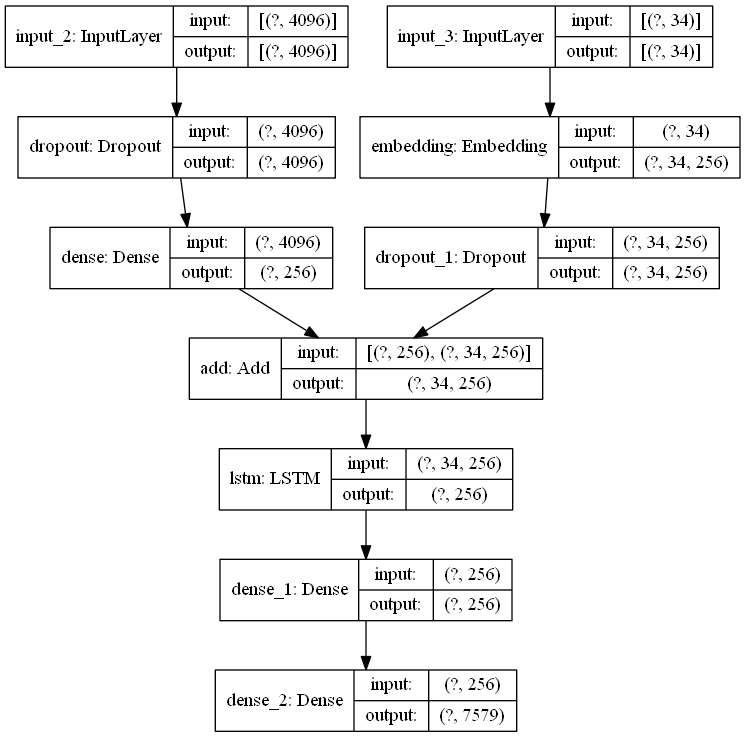
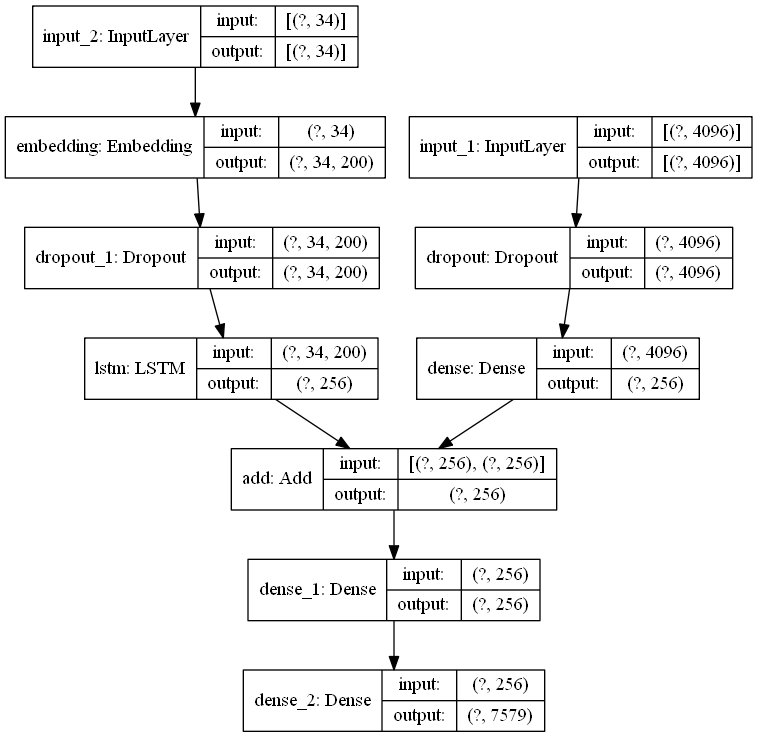
added glove

diff --git a/train.py b/train.py
@@ -1,4 +1,6 @@
 from PIL import Image
+import os
+import numpy as np
 import tensorflow
 import keras
 import string
@@ -133,7 +135,7 @@ def max_length(descriptions):
 	return max(len(d.split()) for d in lines)    
 
 # define the captioning model
-def define_model(vocab_size, max_length, model_type="merge"):
+def define_model(vocab_size, max_length, model_type="merge",feature_model="vgg",glove=False):
 	
 	if feature_model =="injection":
 		inputs1 = Input(shape=(2048,))
@@ -149,7 +151,7 @@ def define_model(vocab_size, max_length, model_type="merge"):
 
 		# sequence model
 		inputs2 = Input(shape=(max_length,))
-		se1 = Embedding(vocab_size, 256, mask_zero=True)(inputs2)
+		se1 = Embedding(vocab_size, embedding_dim, mask_zero=True)(inputs2)
 		se2 = Dropout(0.5)(se1)
 		se3 = LSTM(256)(se2)
 
@@ -176,6 +178,11 @@ def define_model(vocab_size, max_length, model_type="merge"):
 		outputs = Dense(vocab_size, activation='softmax')(decoder)
 
 	model = Model(inputs=[inputs1, inputs2], outputs=outputs)
+
+	if glove:
+		model.layers[2].set_weights([embedding_matrix])
+		model.layers[2].trainable = False
+
 	model.compile(loss='categorical_crossentropy', optimizer='adam')
 
 	# summarize model
@@ -201,13 +208,31 @@ train_features = load_photo_features(str(feature_model) + '.pkl', train)
 print('Photos: train=%d' % len(train_features))
 
 # prepare tokenizer
-tokenizer = create_tokenizer(train_descriptions)
+tokenizer = create_tokenizer(train_descriptions) #word to index
 vocab_size = len(tokenizer.word_index) + 1
 print('Vocabulary Size: %d' % vocab_size)
+
+#glove embeddings
+embeddings_index = {} 
+f = open(os.path.join("", 'glove.6B.200d.txt'), encoding="utf-8")
+for line in f:
+	values = line.split()
+	word = values[0]
+	coefs = np.asarray(values[1:], dtype='float32')
+	embeddings_index[word] = coefs
+
+# represents each word in vocab through a 200D vector
+embedding_dim = 200
+embedding_matrix = np.zeros((vocab_size, embedding_dim))
+for word, i in tokenizer.word_index.items():
+	embedding_vector = embeddings_index.get(word)
+	if embedding_vector is not None:
+		embedding_matrix[i] = embedding_vector	
 
 # determine the maximum sequence length
 max_length = max_length(train_descriptions)
 print('Description Length: %d' % max_length)
+
 # prepare sequences
 X1train, X2train, ytrain = create_sequences(tokenizer, max_length, train_descriptions, train_features, vocab_size)
 
@@ -226,12 +251,21 @@ print('Photos: test=%d' % len(test_features))
 # prepare sequences
 X1test, X2test, ytest = create_sequences(tokenizer, max_length, test_descriptions, test_features, vocab_size)
 
-# fit model
 
 # define the model
-model = define_model(vocab_size, max_length, model_type="injection")
+glove = True
+model_type = "merge"
+model = define_model(vocab_size, max_length, model_type=model_type,feature_model=feature_model,glove=glove)
+
+#define naming of .h5 file
+if glove:
+	model_name = model_type + "-" + feature_model + "-glove-" 
+else:
+	model_name = model_type + "-" + feature_model + "-" 	
+
 # define checkpoint callback
-filepath = 'model-ep{epoch:03d}-loss{loss:.3f}-val_loss{val_loss:.3f}.h5'
+filepath = model_name + 'model-ep{epoch:03d}-loss{loss:.3f}-val_loss{val_loss:.3f}.h5'
 checkpoint = ModelCheckpoint(filepath, monitor='val_loss', verbose=1, save_best_only=True, mode='min')
+
 # fit model
 model.fit([X1train, X2train], ytrain, epochs=20, verbose=2, callbacks=[checkpoint], validation_data=([X1test, X2test], ytest)) 

diff --git a/eval.py b/eval.py
@@ -117,8 +117,10 @@ def evaluate_model(model, descriptions, photos, tokenizer, max_length):
 	for key, desc_list in descriptions.items():
 		# generate description
 		yhat = generate_desc(model, tokenizer, photos[key], max_length)
+		print("yhat ", yhat)
 		# store actual and predicted
 		references = [d.split() for d in desc_list]
+		print("ref:" , references)
 		actual.append(references)
 		predicted.append(yhat.split())
 	# calculate BLEU score
@@ -155,13 +157,13 @@ test_descriptions = load_clean_descriptions('descriptions.txt', test)
 print('Descriptions: test=%d' % len(test_descriptions))
 # photo features
 
-feature_model = "vgg"
+feature_model = "inception"
 
 test_features = load_photo_features(str(feature_model) + '.pkl', test)
 print('Photos: test=%d' % len(test_features))
 
 # load the model
-filename = 'model-ep016-loss5.520-val_loss5.455.h5' #insert your best model here
+filename = 'merge_inception.h5' #insert your best model here
 model = load_model(filename)
 # evaluate model
 evaluate_model(model, test_descriptions, test_features, tokenizer, max_length)

diff --git a/README.md b/README.md
@@ -68,21 +68,39 @@ new_example_pred.py
 
 ## Dataset
 ##### Flickr8K dataset
-- Flickr8k_Dataset.zip  ([Download here](https://github.com/jbrownlee/Datasets/releases/download/Flickr8k/Flickr8k_Dataset.zip))
+- Flickr8k_Dataset.zip  ([Download here](https://github.com/jbrownlee/Datasets/releases/download/Flickr8k/Flickr8k_Dataset.zip)) (1 Gigabyte)
     - Contains 8092 JPEG images
-    - 1 Gigabyte
+    
 
-- Flickr8k_text.zip ([Download here](https://github.com/jbrownlee/Datasets/releases/download/Flickr8k/Flickr8k_text.zip))
-    - Contains a number of files containing different sources of descriptions (captions) for the photographs.
-    - 2.2 Megabytes
+- Flickr8k_text.zip ([Download here](https://github.com/jbrownlee/Datasets/releases/download/Flickr8k/Flickr8k_text.zip)) (2.2 Megabytes)
+    - Flickr8k.token.txt: the raw captions of the Flickr8k Dataset . The first column is the ID of the caption which is “image address # caption number”
+    - Flickr_8k.trainImages.txt: The training images used in our experiments
+    - Flickr_8k.devImages.txt: The development/validation images used in our experiments
+    - Flickr_8k.testImages.txt: The test images used in our experiments
+
 
 The dataset has a pre-defined training dataset (6,000 images), development dataset (1,000 images), and test dataset (1,000 images).
+
 ##### Example of dataset entry
 Image with the description pairs
 
 <p align="center">
 <img src="https://cdn.analyticsvidhya.com/wp-content/uploads/2020/10/Screenshot-2020-10-20-at-4.01.28-PM-670x440.png" width="500" height="300" />
 </p>
+
+##### Vocabulary:
+Number of unique words: 8828
+
+There are words that are seldomly used or misspelled words within the vocabulary of the dataset. The LSTM model produces a probability distribution over each word in the vocabulary. If we reduce the vocabulary to words occurring above a certain threshold, we reduce the number of possible words the LSTM model has to predict and subsequently narrowing the class distribution over the words. 
+
+### Glove Embeddings
+Word vectors map words to a vector space, where similar words are clustered together and different words are separated. We will be using Glove over Word2Vec, since GloVe does not just rely on the local context of words but it incorporates global word co-occurrence to obtain word vectors.
+
+The basic premise behind Glove is that we can derive semantic relationships between words from the co-occurrence matrix. For our model, the longest possible description length is 38 words. Therefore, we will map all the words in our 38-word long caption to a 200-dimension vector using Glove.
+
+This mapping will be done in a separate layer after the input layer called the embedding layer.
+
+The embedding layer is where the partial caption of max length 38, is fed into, and the words are mapped to a 200-dimension Glove embedding. Before training we freeze the embedding layer since we do not want to retrain the weights in our embedding layer.
 
 ## Model discussion
 
@@ -121,6 +139,7 @@ Both the feature extractor and sequence processor output a fixed-length vector. 
 The Decoder model merges the vectors from both input models using an addition operation. This is then fed to a Dense 256 neuron layer and then to a final output Dense layer that makes a softmax prediction over the entire output vocabulary for the next word in the sequence.
 
 ### Model Visualized
+*The most basic merge model without Glove**
 <p align="center">
 <img src="https://machinelearningmastery.com/wp-content/uploads/2017/09/Plot-of-the-Caption-Generation-Deep-Learning-Model.png" width="550" height="400" />
 </p>
@@ -141,25 +160,16 @@ Cumulative scores refer to the calculation of individual n-gram scores at all or
 
 For this experiment we make use of BLEU-1, BLEU-2, BLEU-3 and BLEU-4.
 
-
-### Glove Embeddings
-Word vectors map words to a vector space, where similar words are clustered together and different words are separated. The advantage of using Glove over Word2Vec is that GloVe does not just rely on the local context of words but it incorporates global word co-occurrence to obtain word vectors.
-
-The basic premise behind Glove is that we can derive semantic relationships between words from the co-occurrence matrix. For our model, the longest possible description length is 34 words. Therefore, we will map all the words in our 34-word long caption to a 200-dimension vector using Glove.
-This mapping will be done in a separate layer after the input layer called the embedding layer.
-
-The embedding layer is where the partial caption of max length 38, is fed into, and the words are mapped to a 200-dimension Glove embedding. Before training we freeze the embedding layer since we do not want to retrain the weights in our embedding layer.
-
 ### Model performance and comparison
 
 | Abbreviation | Description |
 | ------       | ---------   |
 | Merge        | Merge architecture: A merge model combines both the encoded form of the image input with the encoded form of the text description generated at the current stage. |
 | Injection | Injection architecture: the inject model combines the encoded form of the image with each word from the text description generated so-far. |
-| VGG-16 | A pretrained neural network used for feature extraction. |
-| Inception | A pretrained neural network used for feature extraction. |
-
-
+| VGG/Inception/EfficientNet | The pre-trained neural network used for feature extraction. |
+| RV | Reduced vocabulary. The absence of this abbreviation indicates the normal vocabulary was used.  |
+| BS*k* | Beam Search with *k* indicating the number of beams. The absence of this abbreviation indicates that greedy search was used | 
+| Glove | Indicates that the pre-trained embedding layer was used. |
 
 Below are the BLEU-1,2,3,4 Metrics compared to other methods achieved on the Flickr8k test set.
 
@@ -169,29 +179,32 @@ Below are the BLEU-1,2,3,4 Metrics compared to other methods achieved on the Fli
 | [Vinyals et al., (2014)](https://arxiv.org/pdf/1411.4555.pdf) |   63   |   41   |   27   |    -   |
 | [Kiros et al., (2014)](https://arxiv.org/pdf/1411.4555.pdf)   |  65.6  |  42.4  |  27.7  |  17.7  |
 | [Tanti et al., (2017)](https://arxiv.org/pdf/1708.02043.pdf)  | 60.1   | 41.1   | 27.4   | 17.9   |
-| Merge + VGG-16                                                | 57.98  | 34.12  | 25.47  | 3.67   |
-| Merge + Inception                                             | 53.26  | 27.57  | 18.25  | 7.76   | 
-| Injection + VGG-16                                            | 29.13  | 11.17  | 7.33   | 0.0    | 
+| Merge-VGG                                               | 57.98  | 34.12  | 25.47  | 3.67   |
+| Merge-Inception   *(needs retraining)*                                          | 53.26  | 27.57  | 18.25  | 7.76   | 
+| Injection-VGG                                           | 29.13 | 11.17  | 7.33   | 0.5    | 
+| Injection-Inception-Glove |     |     |    |
+
 ### Model Extensions
 - [ ] ***Tune model***
 Tune hyper parameters for problem (learning rate, batch size, number of layers, number of units, dropout rate, batch normalisation etc.)
 
-- [x] ***Alternate Pre-trained Image models for Feature Vector***
+- [x] ***Alternate Pre-trained Image models for Feature Vector***  
 Instead of using VGG-16, consider a larger model that offers better performance on the ImageNet dataset, such as Inception or EfficientNet-B7
 
-- [ ] ***Pre-trained Word Vectors***
+- [x] ***Pre-trained Word Vectors***  
 The model learned the word vectors as part of fitting the model. Better performance may be achieved by using word vectors either pre-trained on the training dataset or trained on a much larger corpus of text, such as news articles or Wikipedia. GLove or WordNet would be appropriate candidates. 
 
-- [ ] ***Smaller Vocabulary***
+- [ ] ***Smaller Vocabulary***  
 A larger vocabulary of nearly eight thousand words was used in the development of the model. Many of the words supported may be misspellings or only used once in the entire dataset. Refine the vocabulary and reduce the size, perhaps by half.
 
-- [ ] ***Attention Mechanism***
+- [ ] ***Attention Mechanism***  
 Attention-based mechanisms are becoming increasingly popular in deep learning because they can dynamically focus on the various parts of the input image while the output sequences are being produced. Using the whole representation of the image h to condition the generation of each word cannot efficiently produce different words for different parts of the image. This is exactly where an Attention mechanism is helpful.
 
-- [ ] ***Bigger datasets***
+- [ ] ***Bigger datasets***  
 Make use of the larger datasets Flickr30k (30,000 images), MSCOCO (220,000 images), or Stock3M  (3 Million images). A bigger dataset would capture more examples of object interactions and hopefully be able to generalize better to unseen examples. Bigger datasets require more computing resources and training times. 
 
-- [ ] ***Tune model architecture*** 
-Changing the model architecture.(Adding BatchNormalization Layer, Dropouts etc.)
+- [ ] ***Beam Search***  
+Previously, greedy search is used, where the the word with the highest probability is selected at each step in the output sequence. While this approach is often effective, it is obviously non-optimal. 
 
+Instead of greedily choosing the most likely next step as the sequence is constructed, beam search expands all possible next steps and keeps the k most likely, where k is a user-specified parameter and controls the number of beams or parallel searches through the sequence of probabilities.
 
